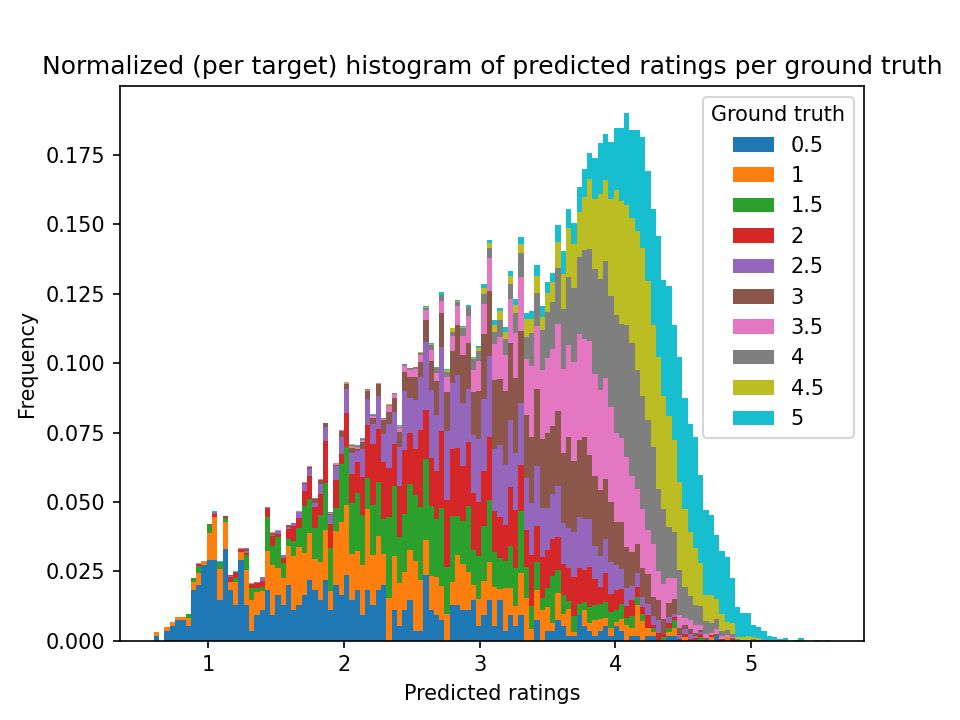
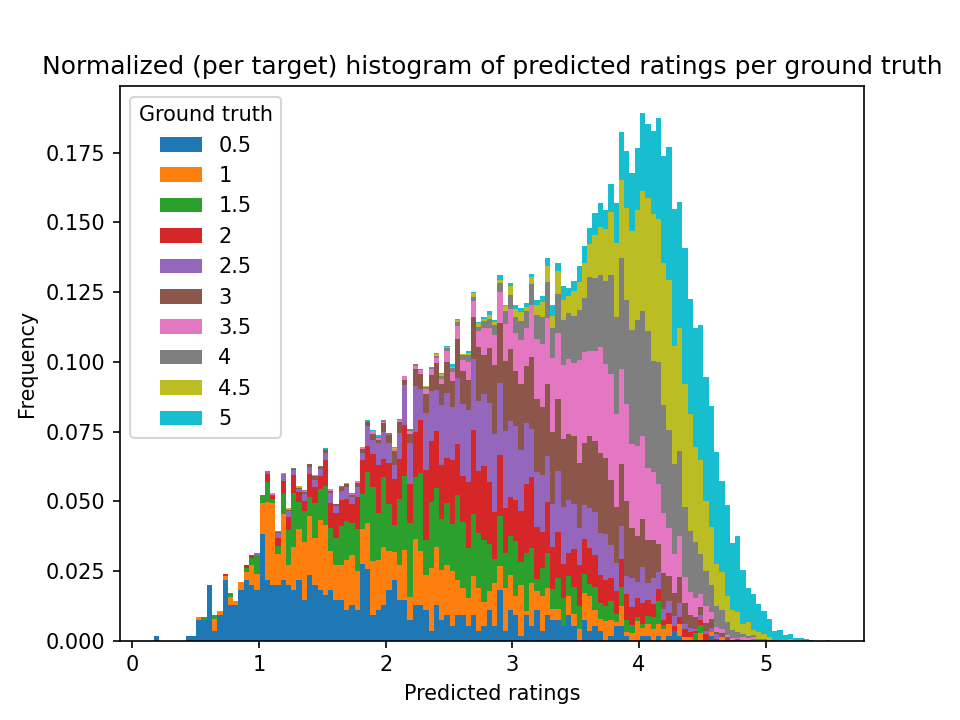
Include evaluate_ncf in NCF module

diff --git a/src/evaluate.py b/src/evaluate.py
@@ -1,21 +1,12 @@
-from math import sqrt
-
-import numpy as np
-import pandas as pd
 import torch
-from torch import nn
-from torch.utils.data import DataLoader
-from tqdm import tqdm
 
 from datasets.dynamic_movieLens_dataset import DynamicMovieLensDataset, MyCollator
 from datasets.one_hot_dataset import OneHotMovieLensDataset
 from globals import test_set_file, val_batch_size, USE_FEATURES
-from neural_collaborative_filtering.models import NCF
+from neural_collaborative_filtering.evaluate_ncf import eval_model
 from neural_collaborative_filtering.models.AttentionNCF import AttentionNCF
 from neural_collaborative_filtering.models.BasicNCF import BasicNCF
 from neural_collaborative_filtering.models.NCF import load_model
-from plots import plot_residuals, plot_stacked_residuals, plot_att_stats, plot_rated_items_counts
-from train import NCF_withfeatures_forward, NCF_onehot_forward
 
 device = torch.device("cuda:0" if torch.cuda.is_available() else "cpu")
 
@@ -25,97 +16,25 @@ visualize = False
 keep_att_stats = False
 
 
-def evaluate_model(model: NCF, forward_function, dataset_class):
-    model.to(device)
-
-    # load dataset
-    test_dataset = dataset_class(test_set_file)
-    print('Test size:', len(test_dataset))
-
-    att_stats = None
-    I = dataset_class.get_number_of_items()
-    if visualize and isinstance(model, AttentionNCF):
-        B = 1
-        test_loader = DataLoader(test_dataset, batch_size=B, collate_fn=MyCollator(only_rated=True, with_names=True), shuffle=True)
-    elif keep_att_stats and isinstance(model, AttentionNCF):
-        att_stats = {'sum': pd.DataFrame(index=dataset_class.get_sorted_item_names(), columns=dataset_class.get_sorted_item_names(), data=np.zeros((I, I))),
-                     'count': pd.DataFrame(index=dataset_class.get_sorted_item_names(), columns=dataset_class.get_sorted_item_names(), data=np.zeros((I, I), dtype=np.int32))}
-        test_loader = DataLoader(test_dataset, batch_size=val_batch_size, collate_fn=MyCollator(only_rated=False, with_names=True))
-    else:
-        test_loader = DataLoader(test_dataset, batch_size=val_batch_size, collate_fn=dataset_class.use_collate())
-
-    criterion = nn.MSELoss(reduction='sum')   # don't average the loss as we shall do that ourselves for the whole epoch
-
-    # Calculate val_loss and see if we need to stop
-    model.eval()  # gradients "off"
-    test_sum_loss = 0.0
-    test_size = 0
-    fitted_values = []
-    ground_truth = []
-
-    with torch.no_grad():
-        for data in tqdm(test_loader, desc='Testing'):
-            if visualize and isinstance(model, AttentionNCF):
-                # get the input matrices and the target
-                candidate_items, rated_items, user_matrix, y_batch, candidate_names, rated_names = data
-                # forward model
-                out = model(candidate_items.float().to(device), rated_items.float().to(device), user_matrix.float().to(device),
-                            candidate_names=candidate_names, rated_names=rated_names, visualize=True)
-            elif keep_att_stats and isinstance(model, AttentionNCF):
-                # get the input matrices and the target
-                candidate_items, rated_items, user_matrix, y_batch, candidate_names, rated_names = data
-                # forward model
-                out = model(candidate_items.float().to(device), rated_items.float().to(device), user_matrix.float().to(device),
-                            att_stats=att_stats, candidate_names=candidate_names, rated_names=rated_names)
-            else:
-                # forward model
-                out, y_batch = forward_function(model, data)
-            # calculate loss
-            loss = criterion(out, y_batch.view(-1, 1).float().to(device))
-            # accumulate validation loss
-            test_sum_loss += loss.detach().item()
-            test_size += len(y_batch)
-            # keep track of fitted values and their actual targets
-            fitted_values.append(out.cpu().detach().numpy())
-            ground_truth.append(y_batch.view(-1, 1).float().cpu().detach().numpy())
-
-    test_mse = test_sum_loss / test_size
-    print(f'Test loss (MSE): {test_mse:.6f} - RMSE: {sqrt(test_mse):.6f}')
-
-    if keep_att_stats and isinstance(model, AttentionNCF):
-        plot_rated_items_counts(att_stats['count'], item_names=dataset_class.get_sorted_item_names())
-        plot_att_stats(att_stats, item_names=dataset_class.get_sorted_item_names())
-    else:
-        fitted_values = np.concatenate(fitted_values, dtype=np.float64).reshape(-1)
-        ground_truth = np.concatenate(ground_truth, dtype=np.float64).reshape(-1)
-
-        # plot_fitted_vs_targets(fitted_values, ground_truth)
-        plot_stacked_residuals(fitted_values, ground_truth)
-        plot_residuals(fitted_values, ground_truth)
-
-
 if __name__ == '__main__':
     model_file = '../models/final_model.pt'
 
     if USE_FEATURES:
+        dataset_class = DynamicMovieLensDataset
+
         # get metadata dim
-        item_dim = MovieLensDataset.get_item_feature_dim()
+        item_dim = dataset_class.get_item_feature_dim()
 
         # load model with correct layer sizes
         model = load_model(model_file, AttentionNCF)
-
-        forward_function = NCF_withfeatures_forward
-        dataset_class = MovieLensDataset
     else:
-        # model = load_model(model_file, BasicNCF)
-
-        state, _ = torch.load(model_file)
-        model = BasicNCF(item_dim=OneHotMovieLensDataset.get_item_dim(),
-                         user_dim=OneHotMovieLensDataset.get_user_dim())
-        model.load_state_dict(state)
-
-        forward_function = NCF_onehot_forward
         dataset_class = OneHotMovieLensDataset
+
+        # model = load_model(model_file, BasicNCF)
+        state, _ = torch.load(model_file)
+        model = BasicNCF(item_dim=dataset_class.get_number_of_items(),
+                         user_dim=dataset_class.get_number_of_users())
+        model.load_state_dict(state)
 
         # make sure these are false
         visualize = False
@@ -124,4 +43,4 @@ if __name__ == '__main__':
     print(model)
 
     # evaluate model on test set
-    evaluate_model(model, forward_function, dataset_class)
+    eval_model(model, dataset_class, test_set_file, val_batch_size)

diff --git a/src/neural_collaborative_filtering/evaluate_ncf.py b/src/neural_collaborative_filtering/evaluate_ncf.py
@@ -1,0 +1,96 @@
+from math import sqrt
+
+import numpy as np
+import pandas as pd
+import torch
+from torch import nn
+from torch.utils.data import DataLoader
+from tqdm import tqdm
+
+from datasets.dynamic_movieLens_dataset import MyCollator
+from neural_collaborative_filtering.models import NCF
+from neural_collaborative_filtering.models.AttentionNCF import AttentionNCF
+from plots import plot_residuals, plot_stacked_residuals, plot_att_stats, plot_rated_items_counts
+
+device = torch.device("cuda:0" if torch.cuda.is_available() else "cpu")
+
+
+# perform attention visualization on top of evaluation
+visualize = False
+keep_att_stats = False
+
+
+def eval_model(model: NCF, dataset_class, test_set_file, batch_size):
+    model.to(device)
+
+    # load dataset
+    test_dataset = dataset_class(test_set_file)
+    print('Test size:', len(test_dataset))
+
+    att_stats = None
+    I = dataset_class.get_number_of_items()
+    if visualize and isinstance(model, AttentionNCF):
+        B = 1
+        test_loader = DataLoader(test_dataset, batch_size=B, collate_fn=MyCollator(only_rated=True, with_names=True),
+                                 shuffle=True)
+    elif keep_att_stats and isinstance(model, AttentionNCF):
+        att_stats = {'sum': pd.DataFrame(index=dataset_class.get_sorted_item_names(),
+                                         columns=dataset_class.get_sorted_item_names(), data=np.zeros((I, I))),
+                     'count': pd.DataFrame(index=dataset_class.get_sorted_item_names(),
+                                           columns=dataset_class.get_sorted_item_names(),
+                                           data=np.zeros((I, I), dtype=np.int32))}
+        test_loader = DataLoader(test_dataset, batch_size=batch_size,
+                                 collate_fn=MyCollator(only_rated=False, with_names=True))
+    else:
+        test_loader = DataLoader(test_dataset, batch_size=batch_size, collate_fn=dataset_class.use_collate())
+
+    criterion = nn.MSELoss(reduction='sum')  # don't average the loss as we shall do that ourselves for the whole epoch
+
+    # Calculate val_loss and see if we need to stop
+    model.eval()  # gradients "off"
+    test_sum_loss = 0.0
+    test_size = 0
+    fitted_values = []
+    ground_truth = []
+
+    with torch.no_grad():
+        for batch in tqdm(test_loader, desc='Testing'):
+            if visualize and isinstance(model, AttentionNCF):
+                # get the input matrices and the target
+                candidate_items, rated_items, user_matrix, y_batch, candidate_names, rated_names = batch
+                # forward model
+                out = model(candidate_items.float().to(device), rated_items.float().to(device),
+                            user_matrix.float().to(device),
+                            candidate_names=candidate_names, rated_names=rated_names, visualize=True)
+            elif keep_att_stats and isinstance(model, AttentionNCF):
+                # get the input matrices and the target
+                candidate_items, rated_items, user_matrix, y_batch, candidate_names, rated_names = batch
+                # forward model
+                out = model(candidate_items.float().to(device), rated_items.float().to(device),
+                            user_matrix.float().to(device),
+                            att_stats=att_stats, candidate_names=candidate_names, rated_names=rated_names)
+            else:
+                # forward model
+                out, y_batch = dataset_class.forward(model, batch, device)
+            # calculate loss
+            loss = criterion(out, y_batch.view(-1, 1).float().to(device))
+            # accumulate validation loss
+            test_sum_loss += loss.detach().item()
+            test_size += len(y_batch)
+            # keep track of fitted values and their actual targets
+            fitted_values.append(out.cpu().detach().numpy())
+            ground_truth.append(y_batch.view(-1, 1).float().cpu().detach().numpy())
+
+    test_mse = test_sum_loss / test_size
+    print(f'Test loss (MSE): {test_mse:.6f} - RMSE: {sqrt(test_mse):.6f}')
+
+    if keep_att_stats and isinstance(model, AttentionNCF):
+        plot_rated_items_counts(att_stats['count'], item_names=dataset_class.get_sorted_item_names())
+        plot_att_stats(att_stats, item_names=dataset_class.get_sorted_item_names())
+    else:
+        fitted_values = np.concatenate(fitted_values, dtype=np.float64).reshape(-1)
+        ground_truth = np.concatenate(ground_truth, dtype=np.float64).reshape(-1)
+
+        # plot_fitted_vs_targets(fitted_values, ground_truth)
+        plot_stacked_residuals(fitted_values, ground_truth)
+        plot_residuals(fitted_values, ground_truth)

diff --git a/src/neural_collaborative_filtering/models/AttentionNCF.py b/src/neural_collaborative_filtering/models/AttentionNCF.py
@@ -32,14 +32,14 @@ class AttentionNCF(NCF):
         # build attention network
         if att_dense is not None:
             self.AttentionNet = nn.Sequential(
-                nn.Linear(2*item_emb, att_dense),
+                nn.Linear(2 * item_dim, att_dense),
                 nn.ReLU(),
                 nn.Dropout(dropout_rate),
                 nn.Linear(att_dense, 1)
             )
         else:
             self.AttentionNet = nn.Sequential(
-                nn.Linear(2 * item_emb, 1)
+                nn.Linear(2 * item_dim, 1)
             )
         # Build MLP according to params
         self.MLP = build_MLP_layers(item_emb + user_emb, mlp_dense_layers, dropout_rate=dropout_rate)
@@ -58,12 +58,12 @@ class AttentionNCF(NCF):
         candidate_item_embeddings = self.ItemEmbeddings(candidate_items)
 
         # Note:  Use detach or not?  -> using it gives slightly worse results
-        rated_emb = self.ItemEmbeddings(rated_items)
+        # rated_emb = self.ItemEmbeddings(rated_items)
 
         # attention on rated items
         """ Note: the one that interleaves matters! I think this works correctly into (B, I) shape 
         because the first I elements contain all different rated items and they become the first row of length I """
-        attNetInput = torch.cat((candidate_item_embeddings.repeat_interleave(I, dim=0), rated_emb.repeat(B, 1)), dim=1)
+        attNetInput = torch.cat((candidate_items.repeat_interleave(I, dim=0), rated_items.repeat(B, 1)), dim=1)
         attention_scores = self.AttentionNet(attNetInput).view(B, I)
         # mask unrated items per user (!) - otherwise there may be high weights on 0 entries
         attention_scores[user_matrix == 0.0] = -float('inf')    # so that softmax gives this a 0 attention weight
